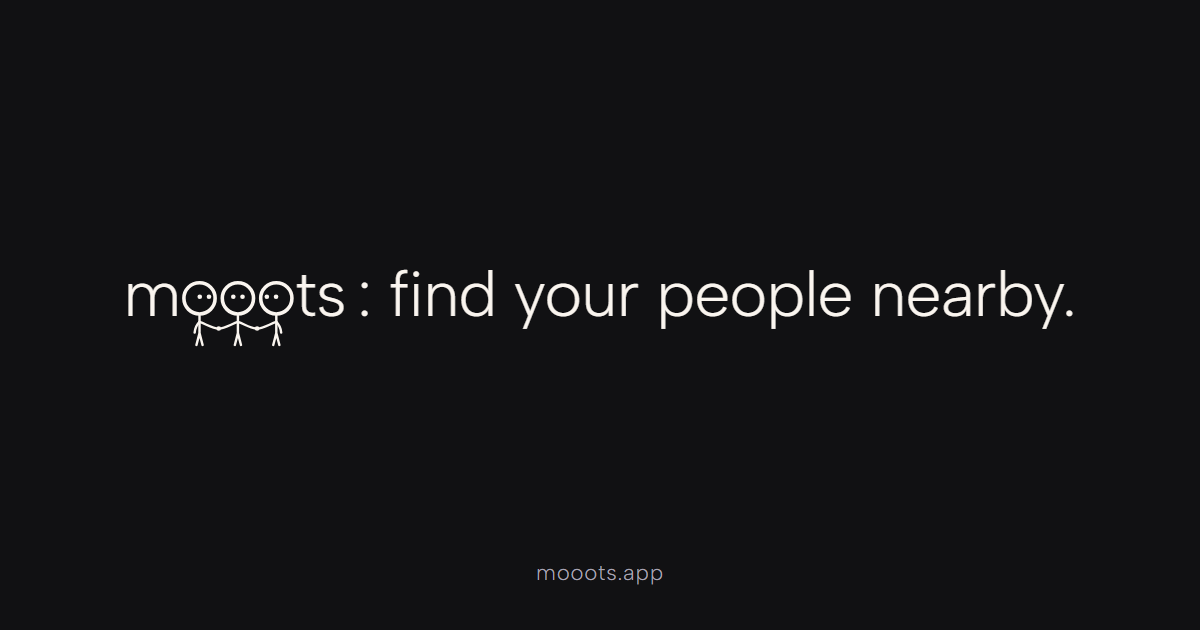
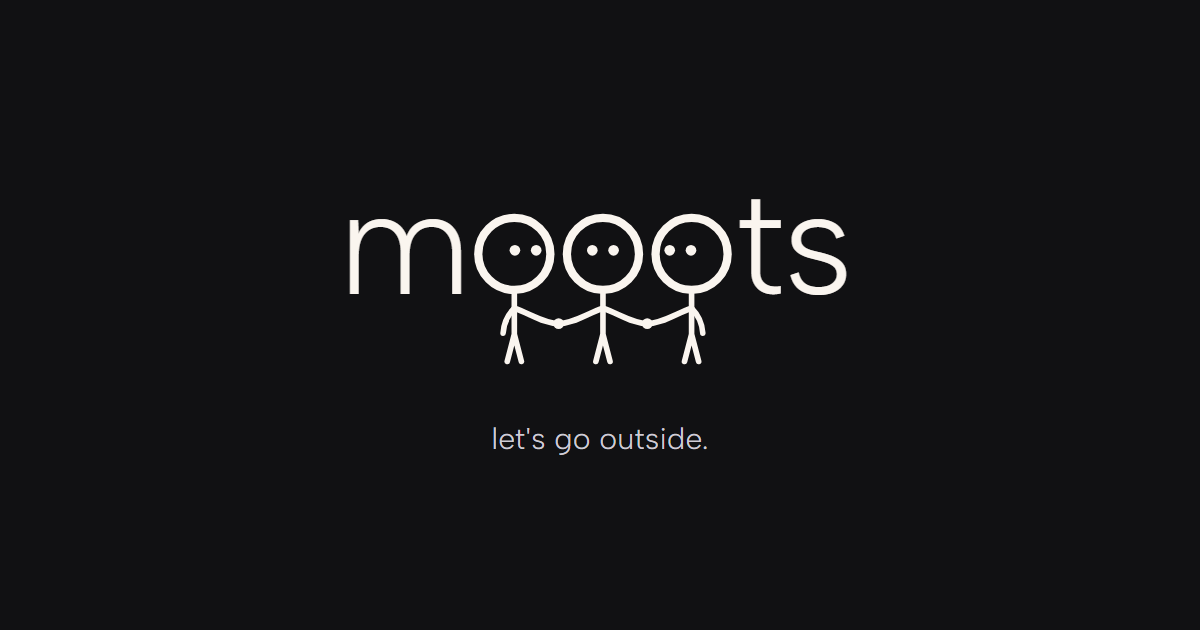
Lead with the wordmark alone and the "let's go outside" line
Drop ": find your people nearby." so the logo stands alone at up to
360px, which also makes the dance easier to see. The line below becomes
"let's go outside. just trying to build local community with
spontaneous hangouts." Update the title, descriptions and og.png to
match, and give the 404 heading its own style.

Changed region(s): [[0.0925, 0.3016, 0.8942, 0.573], [0.4008, 0.6635, 0.5858, 0.7238], [0.4317, 0.9048, 0.555, 0.9349]]

diff --git a/index.html b/index.html
@@ -3,18 +3,18 @@
 <head>
 <meta charset="utf-8">
 <meta name="viewport" content="width=device-width, initial-scale=1">
-<title>Mooots: find your people nearby</title>
-<meta name="description" content="Mooots: find your people nearby. Get an invite when we're ready.">
+<title>Mooots</title>
+<meta name="description" content="let's go outside. just trying to build local community with spontaneous hangouts.">
 <meta name="theme-color" content="#111113">
 <meta property="og:title" content="Mooots">
-<meta property="og:description" content="Find your people nearby.">
+<meta property="og:description" content="let's go outside. just trying to build local community with spontaneous hangouts.">
 <meta property="og:url" content="https://mooots.app/">
 <meta property="og:type" content="website">
 <meta property="og:site_name" content="Mooots">
 <meta property="og:image" content="https://mooots.app/og.png">
 <meta property="og:image:width" content="1200">
 <meta property="og:image:height" content="630">
-<meta property="og:image:alt" content="mooots: find your people nearby.">
+<meta property="og:image:alt" content="mooots: let's go outside.">
 <meta name="twitter:card" content="summary_large_image">
 <link rel="icon" href="favicon.svg" type="image/svg+xml">
 <link rel="preload" href="fonts/AlbertSans-Light.ttf" as="font" type="font/ttf" crossorigin>
@@ -55,8 +55,8 @@
           <circle cx="530" cy="430" r="9"><animate class="dance" attributeName="cy" begin="indefinite" dur="2.4s" fill="freeze" calcMode="spline" keyTimes="0;0.2;0.4;0.6;0.8;1" keySplines="0.37 0 0.63 1;0.37 0 0.63 1;0.37 0 0.63 1;0.37 0 0.63 1;0.37 0 0.63 1" values="430;386;430;386;430;430"/></circle>
           <circle cx="680" cy="430" r="9"><animate class="dance" attributeName="cy" begin="indefinite" dur="2.4s" fill="freeze" calcMode="spline" keyTimes="0;0.2;0.4;0.6;0.8;1" keySplines="0.37 0 0.63 1;0.37 0 0.63 1;0.37 0 0.63 1;0.37 0 0.63 1;0.37 0 0.63 1" values="430;386;430;386;430;430"/></circle>
         </g>
-      </svg>: find your people nearby.</h1>
-    <p class="whisper">let's go outside.</p>
+      </svg></h1>
+    <p class="whisper">let's go outside. just trying to build local community with spontaneous hangouts.</p>
     </div>
 
     <form class="waitlist" id="waitlist" novalidate>

diff --git a/assets/site.css b/assets/site.css
@@ -27,14 +27,12 @@ a:hover { color: var(--ink); }
 .teaser main { width: 100%; max-width: 800px; display: flex; flex-direction: column; align-items: center; gap: clamp(72px, 15vh, 170px); text-align: center; }
 .spacer { height: 20px; }
 
-/* Logo sits inline with the headline: 1em of text = 250 logo units, so the
-   logo's letters match the headline and the figures hang below the baseline. */
-.headline { margin: 0; font-weight: 300; font-size: min(48px, calc((100vw - 48px) / 15.5)); line-height: 1.5; letter-spacing: -0.01em; white-space: nowrap; }
-.headline .logo { width: 3.52em; height: 1.4em; vertical-align: -0.56em; margin-right: 0.12em; }
+/* The wordmark on its own is the headline. */
+.headline { margin: 0; font-weight: 300; line-height: 0; }
+.headline .logo { display: block; width: min(360px, 72vw); height: auto; aspect-ratio: 880 / 350; }
 
-.hero { display: flex; flex-direction: column; align-items: center; gap: 14px; }
-.whisper { margin: 0; font-size: 15px; font-weight: 300; letter-spacing: 0.02em; color: var(--ink-faint); }
-
+.hero { display: flex; flex-direction: column; align-items: center; gap: 28px; }
+.whisper { margin: 0; max-width: 420px; font-size: 18px; font-weight: 300; line-height: 1.5; letter-spacing: 0.01em; color: var(--ink-soft); text-wrap: balance; }
 
 
 .waitlist { width: 100%; display: flex; flex-direction: column; align-items: center; text-align: center; }

diff --git a/404.html b/404.html
@@ -12,7 +12,7 @@
 <div class="teaser">
   <div class="spacer" aria-hidden="true"></div>
   <main style="gap: 24px">
-    <h1 class="headline">Nobody's here.</h1>
+    <h1 style="margin: 0; font-weight: 300; font-size: 40px">Nobody's here.</h1>
     <a href="/">Back to mooots.app</a>
   </main>
   <footer class="site-footer">
